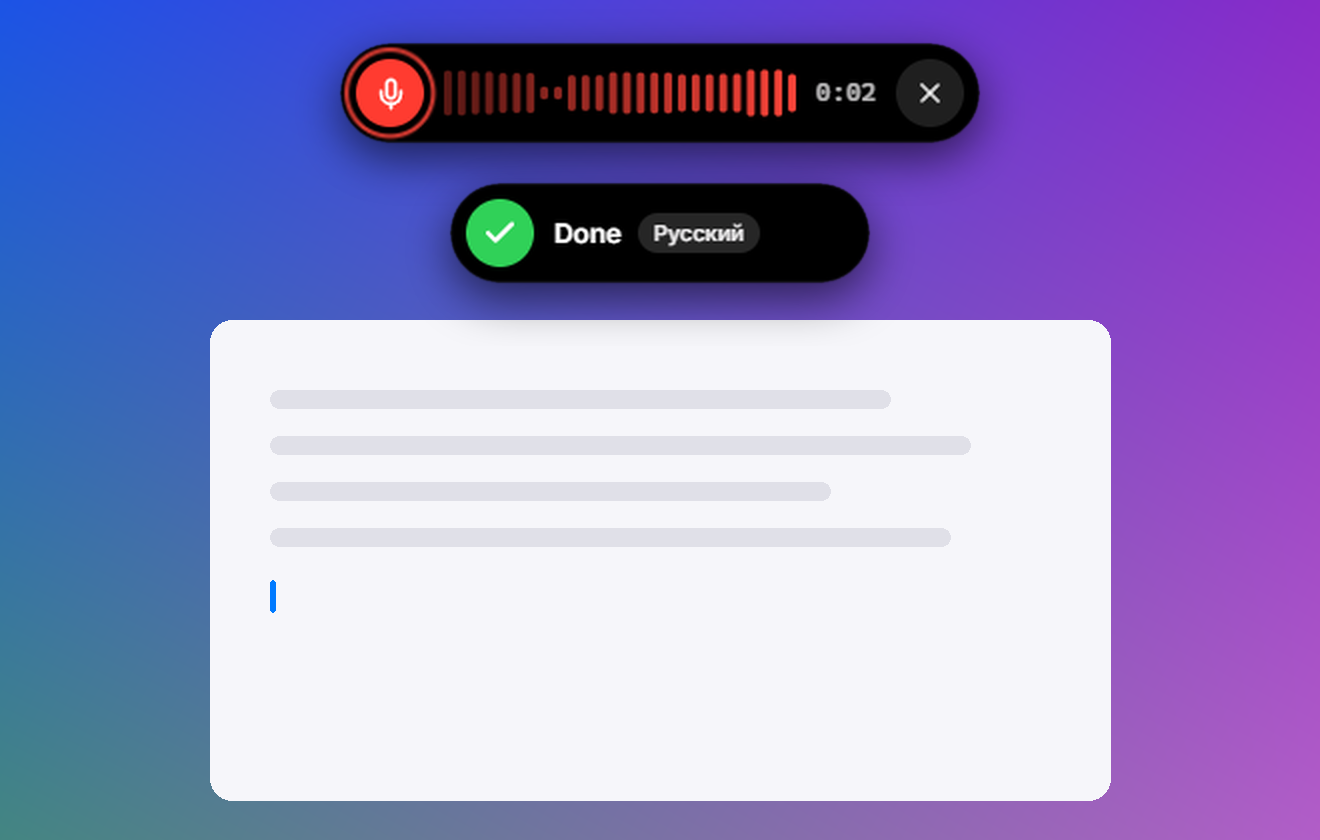
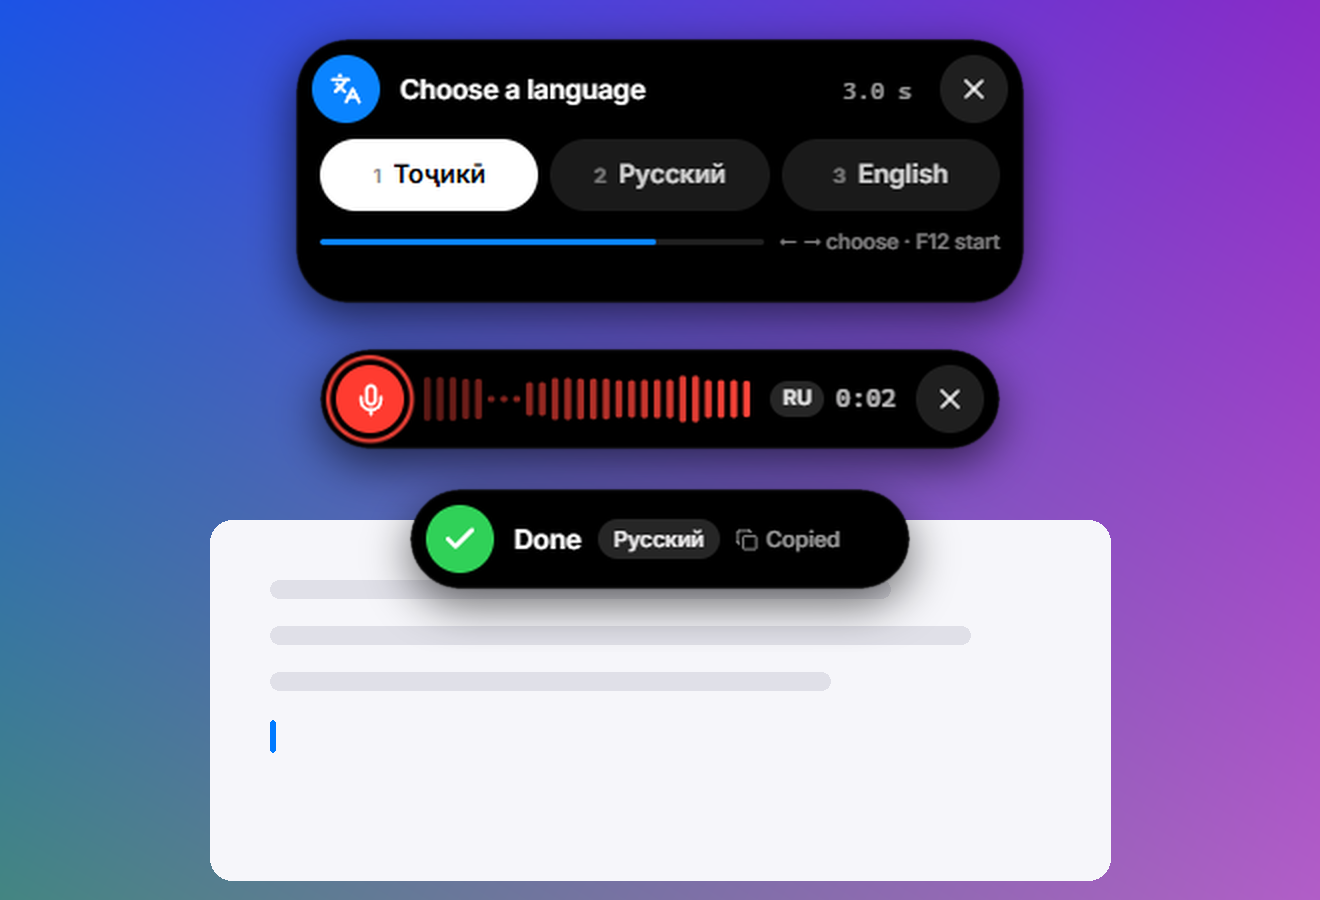
1.0.1: language picker, live typing, changelog

diff --git a/CHANGELOG.md b/CHANGELOG.md
@@ -2,6 +2,21 @@
 
 All versions of VoiceFlow AI. Installers: [Releases](https://github.com/imomzoda-dev/VoiceFlowAI/releases).
 
+## 1.0.1 — 2026-11-04
+
+**VoiceFlow AI 1.0.1** — choose your language with one key, and text that appears while you speak. For **Windows** and **macOS**.
+
+- **Pick the language when you start.** Press **F12** (⌥ on a Mac): the dictation widget shows your three languages. Choose with **← →** (or **1 2 3**, or a click) — after **2 seconds** dictation starts in that language, or press F12 again to start at once. The time to choose can be 2, 4, 6 or 8 seconds (*Settings → Voice*).
+- **No more wrong languages.** In *Settings → Recognition → Your languages* choose your default language and two more — speech is recognised in these only. Russian can no longer come out as “Icelandic”. **All ~100 languages** Whisper knows can be chosen.
+- **Types while you speak, like Google Docs.** Every phrase appears at the cursor as soon as you pause, while you keep talking. Can be turned off in *Settings → Voice*.
+- **Nothing is lost.** The dictated text is also left on the clipboard: if no text field had focus, just press **Ctrl+V / ⌘V**. The widget says *Copied*.
+- **Much faster local recognition.** whisper.cpp now keeps the model loaded (it starts while you choose the language), so phrases are recognised without reloading it each time.
+- **Installer that updates.** Running the installer over an installed VoiceFlow AI shows **“Update 1.0.0 → 1.0.1”** with an **Update** button; your folder, documents, models, keys and settings are kept.
+
+**Updating:** VoiceFlow AI **1.0.0** shows an **Update** button in the sidebar. The earlier test build **0.1.0** has no built-in updater — download `VoiceFlow-AI-Setup-1.0.1.exe` once; it updates in place.
+
+**Windows:** the installer is not code-signed — if SmartScreen warns, click *More info → Run anyway*.
+
 ## 1.0.0 — 2026-11-04
 
 **VoiceFlow AI 1.0.0** — the first release. Voice typing in any app and an AI document workspace, for **Windows** and **macOS**.

diff --git a/README.ru.md b/README.ru.md
@@ -52,6 +52,12 @@
   <img src="docs/screenshots/island.png" width="49%" alt="Виджет диктовки" />
 </p>
 
+## Язык — одной клавишей
+
+Нажмите **F12** (правый Option ⌥ на Mac): виджет покажет **три ваших языка**. Выберите стрелками **← →** (или **1 2 3**) — через **2 секунды** (2–8 с, по вашему выбору) VoiceFlow AI начнёт слушать на этом языке, или нажмите клавишу ещё раз, чтобы начать сразу. Речь распознаётся только на выбранных языках — русский больше не станет «исландским».
+
+**Печатает, пока вы говорите.** Как голосовой ввод в Google Docs: каждая фраза появляется в позиции курсора сразу после паузы, а вы продолжаете говорить. Весь текст также остаётся в буфере обмена: если курсор не стоял в поле ввода, просто нажмите **Ctrl+V / ⌘V**.
+
 ## Создано для таджикского — и любых других языков
 
 - **Автоопределение языка**, один язык или *«среди таджикского, русского и английского»*. Whisper часто принимает таджикскую речь за русскую или персидскую — VoiceFlow AI проверяет текст на ғ қ ӯ ҳ ҷ ӣ и повторяет распознавание на нужном языке.

diff --git a/README.md b/README.md
@@ -52,6 +52,12 @@ Put the cursor anywhere — Word, Google Docs, Telegram, WhatsApp, Chrome, Safar
   <img src="docs/screenshots/island.png" width="49%" alt="Dictation widget" />
 </p>
 
+## Choose the language with one key
+
+Press **F12** (Right Option ⌥ on a Mac): the widget shows **your three languages**. Pick one with **← →** (or **1 2 3**) — after **2 seconds** (2–8 s, your choice) VoiceFlow AI starts listening in that language, or press the key again to start at once. Speech is recognised only in the languages you chose, so Russian never comes out as “Icelandic”.
+
+**Types while you speak.** Like Google Docs voice typing, every phrase appears at the cursor as soon as you pause — while you keep talking. And the whole text also stays on the clipboard: if no text field had focus, just press **Ctrl+V / ⌘V**.
+
 ## Made for Tajik — and every other language
 
 - **Automatic language detection**, or one language, or *“detect among Tajik, Russian, English”*. Whisper often labels Tajik as Russian or Persian; VoiceFlow AI checks the text for ғ қ ӯ ҳ ҷ ӣ and re-runs recognition in the right language.
